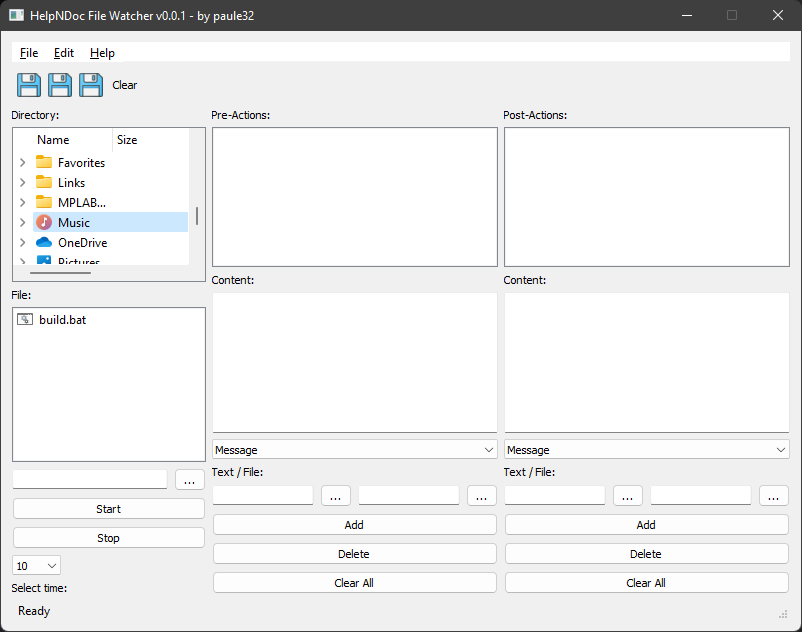
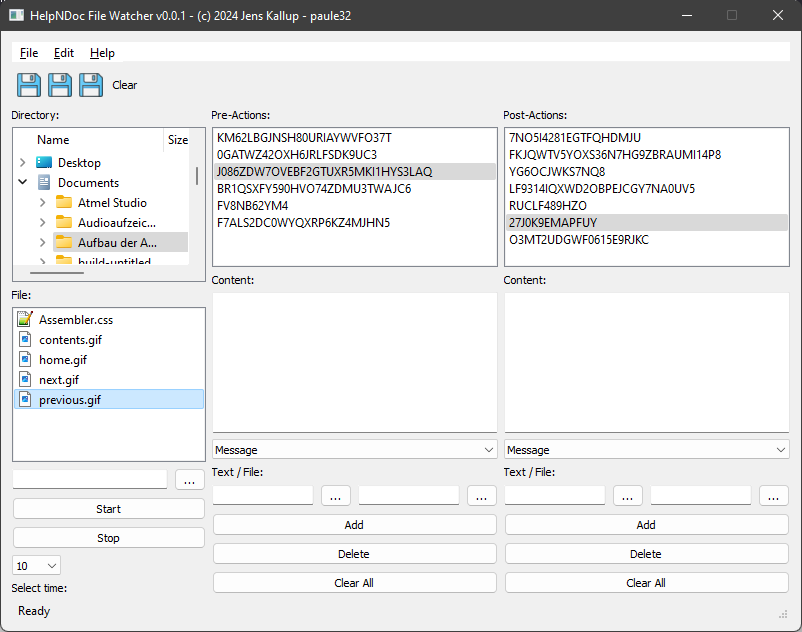
update

diff --git a/src/observer.py b/src/observer.py
@@ -6,6 +6,9 @@
 import sys
 import os
 
+import random
+import string
+
 from PyQt5.QtWidgets import *
 from PyQt5.QtCore    import QTimer, QDir
 
@@ -290,13 +293,23 @@ class FileWatcherGUI(QWidget):
         self.interval = 0
         self.currentTime = 0
 
+    def generate_random_string(self, length):
+        characters = string.ascii_uppercase + string.digits
+        random_string = ''.join(random.sample(characters, length))
+        return random_string
+
     # pre-fixed
     def button_clicked_preadd(self):
-        item = QListWidgetItem("Item")
+        random_string = self.generate_random_string(random.randint(8,32))
+        item = QListWidgetItem(random_string)
         self.preActionList.addItem(item)
         return
 
     def button_clicked_preDel(self):
+        listItems = self.preActionList.selectedItems()
+        if not listItems: return        
+        for item in listItems:
+            self.preActionList.takeItem(self.preActionList.row(item))
         return
 
     def button_clicked_preClr(self):
@@ -305,11 +318,16 @@ class FileWatcherGUI(QWidget):
 
     # post-fixed
     def button_clicked_postadd(self):
-        item = QListWidgetItem("Item")
+        random_string = self.generate_random_string(random.randint(8,32))
+        item = QListWidgetItem(random_string)
         self.postActionList.addItem(item)
         return
 
     def button_clicked_postDel(self):
+        listItems = self.postActionList.selectedItems()
+        if not listItems: return        
+        for item in listItems:
+            self.postActionList.takeItem(self.postActionList.row(item))
         return
 
     def button_clicked_postClr(self):
